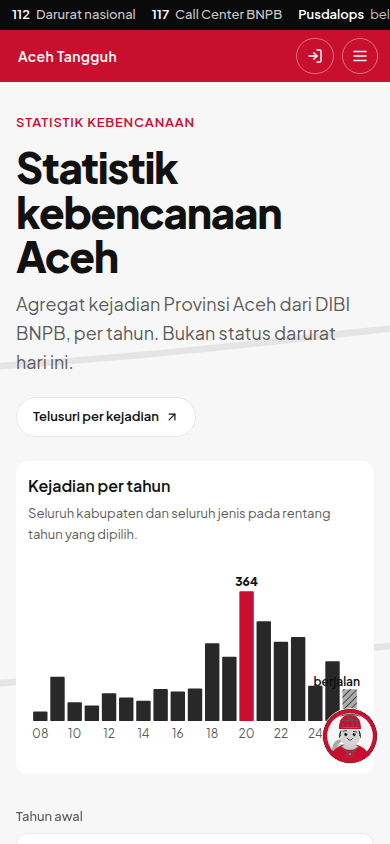
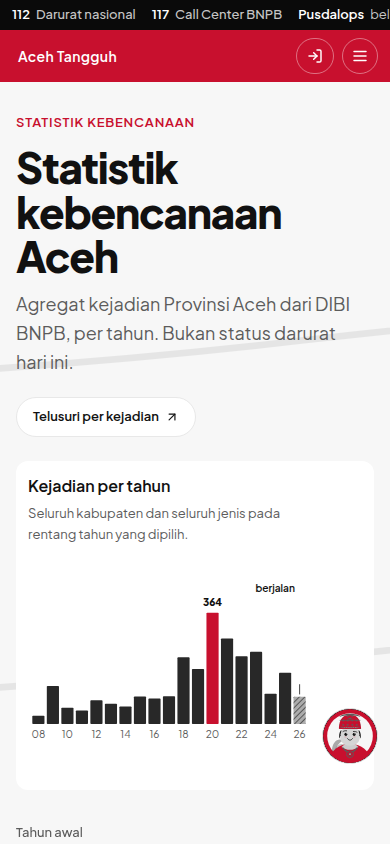
FE-67: keep the year label, ticks, and FAB from colliding
Place berjalan above the plot, show every second year tick, inset the chart from the mobile FAB, and give the lapor kicker a 4.5:1 color.

diff --git a/src/components/beranda/YearBars.tsx b/src/components/beranda/YearBars.tsx
@@ -10,37 +10,44 @@ type Row = { tahun: number; kejadian: number };
 /**
  * Nineteen DIBI year bars. Only the highlight year is red, and only on
  * --chart-surface. The open year is hatched, not striped.
+ * Ticks are every second year so 13px labels never touch.
+ * The open-year label sits in a lane above the plot.
  */
 export function YearBars({
   rows,
   title,
   caption,
-  compactTicks,
   berjalanLabel,
   formatCount,
 }: {
   rows: Row[];
   title: string;
   caption: string;
-  compactTicks: boolean;
   berjalanLabel: string;
   formatCount: (n: number) => string;
 }) {
   const hatchId = `berjalan-${useId().replace(/:/g, "")}`;
   const max = rows.reduce((m, row) => Math.max(m, row.kejadian), 0);
   const width = 360;
-  const height = 200;
-  const axis = 168;
-  const top = 28;
-  const plotH = axis - top;
+  const height = 220;
+  const labelBaseline = 16;
+  const plotTop = 42;
+  const axis = 184;
+  const plotH = axis - plotTop;
   const slot = rows.length > 0 ? (width - 8) / rows.length : 0;
   const barW = Math.max(2, slot - 3);
+  const berjalanIndex = rows.findIndex((row) => row.tahun === BERJALAN_YEAR);
+  const berjalanRow = berjalanIndex >= 0 ? rows[berjalanIndex] : null;
+  const berjalanX =
+    berjalanIndex >= 0 ? 4 + berjalanIndex * slot + (slot - barW) / 2 + barW / 2 : 0;
+  const berjalanH =
+    berjalanRow && max > 0 ? (berjalanRow.kejadian / max) * plotH : 0;
 
   return (
-    <figure className="min-w-0 rounded-xl bg-[var(--chart-surface)] p-3 text-[var(--text)]">
+    <figure className="min-w-0 rounded-xl bg-[var(--chart-surface)] p-3 text-[var(--text)] max-sm:pr-16">
       <figcaption className="mb-1 font-semibold">{title}</figcaption>
       <p className={cn("mb-2 text-[var(--text-dim)]", TYPE_FLOOR_CLASS)}>{caption}</p>
-      <svg viewBox={`0 0 ${width} ${height}`} className="h-52 w-full" aria-hidden>
+      <svg viewBox={`0 0 ${width} ${height}`} className="h-56 w-full" aria-hidden>
         <defs>
           <pattern
             id={hatchId}
@@ -58,14 +65,14 @@ export function YearBars({
           const y = axis - h;
           const highlight = row.tahun === HERO_BAR_HIGHLIGHT_YEAR;
           const berjalan = row.tahun === BERJALAN_YEAR;
-          const showTick = !compactTicks || index % 2 === 0;
+          const showTick = index % 2 === 0;
           const barH = Math.max(h, row.kejadian > 0 ? 1 : 0);
           return (
             <g key={row.tahun}>
               {highlight ? (
                 <text
                   x={x + barW / 2}
-                  y={Math.max(14, y - 6)}
+                  y={y - 8}
                   textAnchor="middle"
                   fontSize="13"
                   fontWeight="800"
@@ -84,26 +91,7 @@ export function YearBars({
                 opacity={highlight ? 1 : berjalan ? 0.35 : 0.9}
               />
               {berjalan ? (
-                <rect
-                  x={x}
-                  y={y}
-                  width={barW}
-                  height={barH}
-                  rx="1"
-                  fill={`url(#${hatchId})`}
-                />
-              ) : null}
-              {berjalan ? (
-                <text
-                  x={width - 2}
-                  y={Math.max(14, y - 4)}
-                  textAnchor="end"
-                  fontSize="13"
-                  fontWeight="600"
-                  fill="currentColor"
-                >
-                  {berjalanLabel}
-                </text>
+                <rect x={x} y={y} width={barW} height={barH} rx="1" fill={`url(#${hatchId})`} />
               ) : null}
               {showTick ? (
                 <text
@@ -119,6 +107,28 @@ export function YearBars({
             </g>
           );
         })}
+        {berjalanRow ? (
+          <g>
+            <line
+              x1={berjalanX}
+              y1={axis - berjalanH - 16}
+              x2={berjalanX}
+              y2={axis - berjalanH - 3}
+              stroke="currentColor"
+              strokeWidth="1"
+            />
+            <text
+              x={berjalanX - 6}
+              y={labelBaseline}
+              textAnchor="end"
+              fontSize="13"
+              fontWeight="600"
+              fill="currentColor"
+            >
+              {berjalanLabel}
+            </text>
+          </g>
+        ) : null}
       </svg>
     </figure>
   );

diff --git a/src/components/beranda/DataHero.tsx b/src/components/beranda/DataHero.tsx
@@ -1,6 +1,6 @@
 "use client";
 
-import { useEffect, useMemo, useState, type ReactNode } from "react";
+import { useMemo, useState, type ReactNode } from "react";
 import { ArrowUpRight } from "lucide-react";
 import { useLocale, useTranslations } from "next-intl";
 import { Link } from "@/i18n/routing";
@@ -222,7 +222,6 @@ export function DataHero() {
   const t = useTranslations("beranda");
   const locale = useLocale();
   const { data, isLoading, isError } = useDibi();
-  const [compactTicks, setCompactTicks] = useState(false);
   const [yearFrom, setYearFrom] = useState<number | null>(null);
   const [yearTo, setYearTo] = useState<number | null>(null);
   const [kabupaten, setKabupaten] = useState("");
@@ -237,14 +236,6 @@ export function DataHero() {
       jenis: jenis || null,
     });
   }, [data, yearFrom, yearTo, kabupaten, jenis]);
-
-  useEffect(() => {
-    const query = window.matchMedia("(max-width: 639px)");
-    const sync = () => setCompactTicks(query.matches);
-    sync();
-    query.addEventListener("change", sync);
-    return () => query.removeEventListener("change", sync);
-  }, []);
 
   const updated = data ? formatUpdated(data.metadata.fetched_at, locale) : null;
   const standbyDate =
@@ -323,7 +314,6 @@ export function DataHero() {
               rows={view.trend}
               title={t("statistik.trendTitle")}
               caption={t("statistik.trendCaption")}
-              compactTicks={compactTicks}
               berjalanLabel={t("statistik.berjalan")}
               formatCount={(count) => angka(count, locale)}
             />

diff --git a/src/lib/fe-67-visual-2.test.ts b/src/lib/fe-67-visual-2.test.ts
@@ -16,9 +16,9 @@ describe("FE-67 visual-2", () => {
     assert.match(bars, /HERO_BAR_HIGHLIGHT_YEAR/);
     assert.match(bars, /BERJALAN_YEAR/);
     assert.match(bars, /fontSize="13"/);
+    assert.match(bars, /index % 2 === 0/);
+    assert.match(bars, /max-sm:pr-16/);
     assert.match(hero, /opacity-\[0\.07\]/);
-    assert.match(hero, /compactTicks/);
-    assert.match(hero, /max-width: 639px/);
     assert.doesNotMatch(hero, /AreaChart/);
     assert.doesNotMatch(bars, /#C8102E|#c8102e/);
   });
@@ -46,6 +46,9 @@ describe("FE-67 visual-2", () => {
     assert.equal(en.laporHub.kicker, "Public participation");
     assert.match(id.laporHub.helper, /moderasi/);
     assert.match(en.laporHub.helper, /moderation/);
+    const hub = read("src/components/laporan/ReportChoiceHub.tsx");
+    assert.match(hub, /text-\[var\(--eyebrow\)\][\s\S]{0,40}t\("kicker"\)/);
+    assert.doesNotMatch(hub, /text-\[var\(--accent-soft\)\][\s\S]{0,40}t\("kicker"\)/);
   });
 
   it("adds the settings scroll hint, hides the mobile status card, and notes the canvas hole", () => {

diff --git a/src/components/laporan/ReportChoiceHub.tsx b/src/components/laporan/ReportChoiceHub.tsx
@@ -11,7 +11,7 @@ export function ReportChoiceHub() {
 
   return (
     <div>
-      <p className={cn("mb-2 text-[var(--accent-soft)]", TYPE_KICKER_CLASS)}>{t("kicker")}</p>
+      <p className={cn("mb-2 text-[var(--eyebrow)]", TYPE_KICKER_CLASS)}>{t("kicker")}</p>
       <h1 className="page-h1">{t("title")}</h1>
       <p className="mt-4 max-w-xl text-base leading-relaxed text-[var(--text-dim)] md:text-lg">
         {t("subtitle")}

diff --git a/docs/pengembangan/jurnal/FE-67.md b/docs/pengembangan/jurnal/FE-67.md
@@ -18,7 +18,7 @@ Seri dan total datang dari `aggregateDibiBeranda` pada payload yang lolos guard.
 
 ## Perubahan
 
-Grafik area tahun diganti batang. Kontur dekoratif 7% duduk di belakang hero dan tertutup permukaan grafik. Pita angka menggambar sparkline untuk kejadian, meninggal, luka, menderita, dan kerugian. Hilang menyisakan slot kosong setinggi sparkline. Catatan skala tampil sekali. Panel Pengaturan mendapat fade bawah saat isi masih tergulir. Kartu Status mobile ikut `settingsOpen`. Komentar lubang kanvas menyebut tangkapan headless. Hub lapor punya kicker dan helper di kedua bahasa. Penolakan kartu undangan tersimpan di `localStorage`. Footer mobile memakai `pb-20`.
+Grafik area tahun diganti batang. Kontur dekoratif 7% duduk di belakang hero dan tertutup permukaan grafik. Label "berjalan" duduk di jalur di atas plot, berakhir di kiri garis penunjuk, dan garis itu hanya menyentuh puncak batang 2026. Tick tahun ditampilkan tiap dua tahun supaya label 13px tidak saling menempel. Di bawah 640px kartu grafik punya padding kanan supaya FAB tidak menutup batang 2026. Pita angka menggambar sparkline untuk kejadian, meninggal, luka, menderita, dan kerugian. Hilang menyisakan slot kosong setinggi sparkline. Catatan skala tampil sekali. Panel Pengaturan mendapat fade bawah saat isi masih tergulir. Kartu Status mobile ikut `settingsOpen`. Komentar lubang kanvas menyebut tangkapan headless. Kicker hub lapor memakai `--eyebrow` (5,49:1 di terang). Penolakan kartu undangan tersimpan di `localStorage`. Footer mobile memakai `pb-20`.
 
 ## Bukti
 
